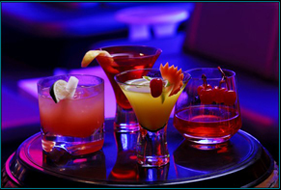
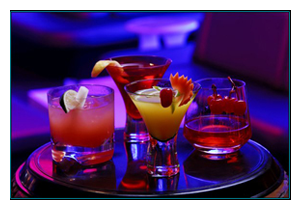
events.html and whiskycoctails.html

diff --git a/events.html b/events.html
@@ -6,9 +6,9 @@
 <link rel="stylesheet" type="text/css" href="style.css">
 <script>
         (new Image()).src = "images/djparties.png";
-        (new Image()).src = "images/djparties30transparent.png";
+        (new Image()).src = "images/djpartiesShine.png";
         (new Image()).src = "images/coctails.png";
-        (new Image()).src = "images/coctails30transparent.png";
+        (new Image()).src = "images/coctailsShine.png";
         
         window.onload = function(){
             var djImageCurrent = document.getElementById("djPartiesImg");
@@ -20,16 +20,16 @@
             coctailsImageCurrent.onmouseout = coctailsMouseOut;
 
             function djMouseOver(){
-                this.src="images/djparties.png";
+                this.src="images/djpartiesShine.png";
             };   
             function djMouseOut(){
-                this.src="images/djparties30transparent.png";
+                this.src="images/djparties.png";
             };
             function coctailsMouseOver(){
-                this.src="images/coctails.png";
+                this.src="images/coctailsShine.png";
             };   
             function coctailsMouseOut(){
-                this.src="images/coctails30transparent.png";
+                this.src="images/coctails.png";
             };
             // function mouseOver (newLink) {
             //     this.src = newLink;
@@ -63,7 +63,7 @@
             <h1>Browse our wide range of events</h1>
             <h2>Prim's upcoming events</h2>
         	<div class="eventBox">
-                <img src="images/coctails30transparent.png" id="coctailsImg">
+                <img src="images/coctails.png" id="coctailsImg">
                 <h2>Coctail Parties</h2>
                 <ul>
                     <li><a href="whiskycoctails.html" class="glow">05/03/2013</a> Whisky Coctails</li>
@@ -72,7 +72,7 @@
                 </ul>
             </div>
             <div class="eventBox">
-                <img src="images/djparties30transparent.png" id="djPartiesImg">
+                <img src="images/djparties.png" id="djPartiesImg">
                 <h2>DJ Parties</h2>
                 <ul>
                     <li><a href="#" class="glow">06/03/2013</a> DJ Spock's Party</li>

diff --git a/style.css b/style.css
@@ -1,31 +1,26 @@
 @charset "utf-8";
 /* CSS Document */
-
 * {
   margin: 0;
   padding: 0;
 }
-
 body {
 	background-image:url("images/bg.png");
 	font-family: Verdana, Arial, Helvetica, sans-serif;
 	color: #FFFFFF;
 }
-
 #container {
 	width: 960px;
 	height: 100%;
 	margin-left: auto;
 	margin-right: auto;
 }
-
 #container img
 {
     display:block;
     float:left;
     border:0;
 }
-
 a.glow, a.glow:hover, a.glow:focus
 {
 	text-decoration: none;
@@ -39,14 +34,12 @@ a.glow, a.glow:hover, a.glow:focus
 	outline: 0 none;
 	font-size:18px;
 }
-
 a.glow:hover, a.glow:focus
 {
 	font-weight:bold;
 	color: #29cfe8;
 	text-shadow: -0px 0px 10px #e629e8, 0px -0px 10px #e629e8;
 }
-
 .menu {
 	width: 960px;
 	height: 50px;
@@ -55,21 +48,17 @@ a.glow:hover, a.glow:focus
 	margin-left: 200px;
 	margin-top: 20px;
 }
-
 .menu ul {
 	margin: 0;
 	padding: 0;
 	list-style-type: none;
 	display:inline;
 }
-
-
 .menu ul li {
 	display: inline;
 	margin-right: 20px;
 	margin-left: 20px;
 }
-
 #form {
 	width: 960px;
 	height: 610px;
@@ -84,12 +73,10 @@ a.glow:hover, a.glow:focus
 	float:left;
 	background-image:url(images/contentbg.png);
 }
-
 .content h1{
 	padding-top:45px;
 	padding-left:25px;
 }
-
 .content h2{
 	padding-left:25px;
 	padding-bottom: 10px;
@@ -101,7 +88,6 @@ a.glow:hover, a.glow:focus
 	float:left;
 	padding:15px 100px 15px 100px;
 }
-
 .eventBox h2{
 	color:white;
 	margin-top: 210px;
@@ -110,7 +96,29 @@ a.glow:hover, a.glow:focus
 .eventBox ul{
 	list-style: none;
 }
+.eventBox img{
+	margin-left: -10px;
+}
 /**********whiskycoctails page**********/
 .slide_nav{
-	cursor:pointer;
+	cursor: pointer;
+	margin-right: 186px;
+
+}
+#slideshow{
+	float:left;
+	width: 300px;
+	margin: 15px 0 0 25px;
+}
+#slideshow img{
+	margin-bottom: 7px;
+}
+.event_desc{
+	margin: 15px 25px 0 380px;
+}
+.event_desc h2{
+	padding-left: 0;
+}
+.event_desc p{
+	margin-bottom: 20px;
 }

diff --git a/whiskycoctails.html b/whiskycoctails.html
@@ -72,6 +72,21 @@
                     Next
                 </a>
             </div>
+            <div class="event_desc">
+                <h2>Whisky Coctails</h2>
+                <p>
+                    Whisky fremstilles af fermenteret byg, rug, hvede eller majs, der destilleres. Maltwhisky er lavet af maltet byg.
+                </p>
+                <p>
+                    Whisky er øl, der destilleres. Maltwhisky er typisk dobbeltdestilleret på kobberkedler. Whiskyen opbevares på fade "casks" af egetræ.
+                </p>
+                <p>
+                    Ud over de traditionelle aftapninger fra destillerierne findes også "uafhængige aftapninger". Det er whiskykøbmænd, der køber et eller flere fade hos destillerierne og opbevarer dem og sælger dem, som de vil. Det er derfor et anderledes produkt end standardproduktet.
+                </p>
+                <p>
+                    En whisky skal være på mindst 40% og mindst tre år gammel. Når den kommer fra fadet er den ofte på 50-60% Cask strength og fortyndes ofte til 42%-46%.
+                </p>
+            </div>
         </section>
         
         <footer>
